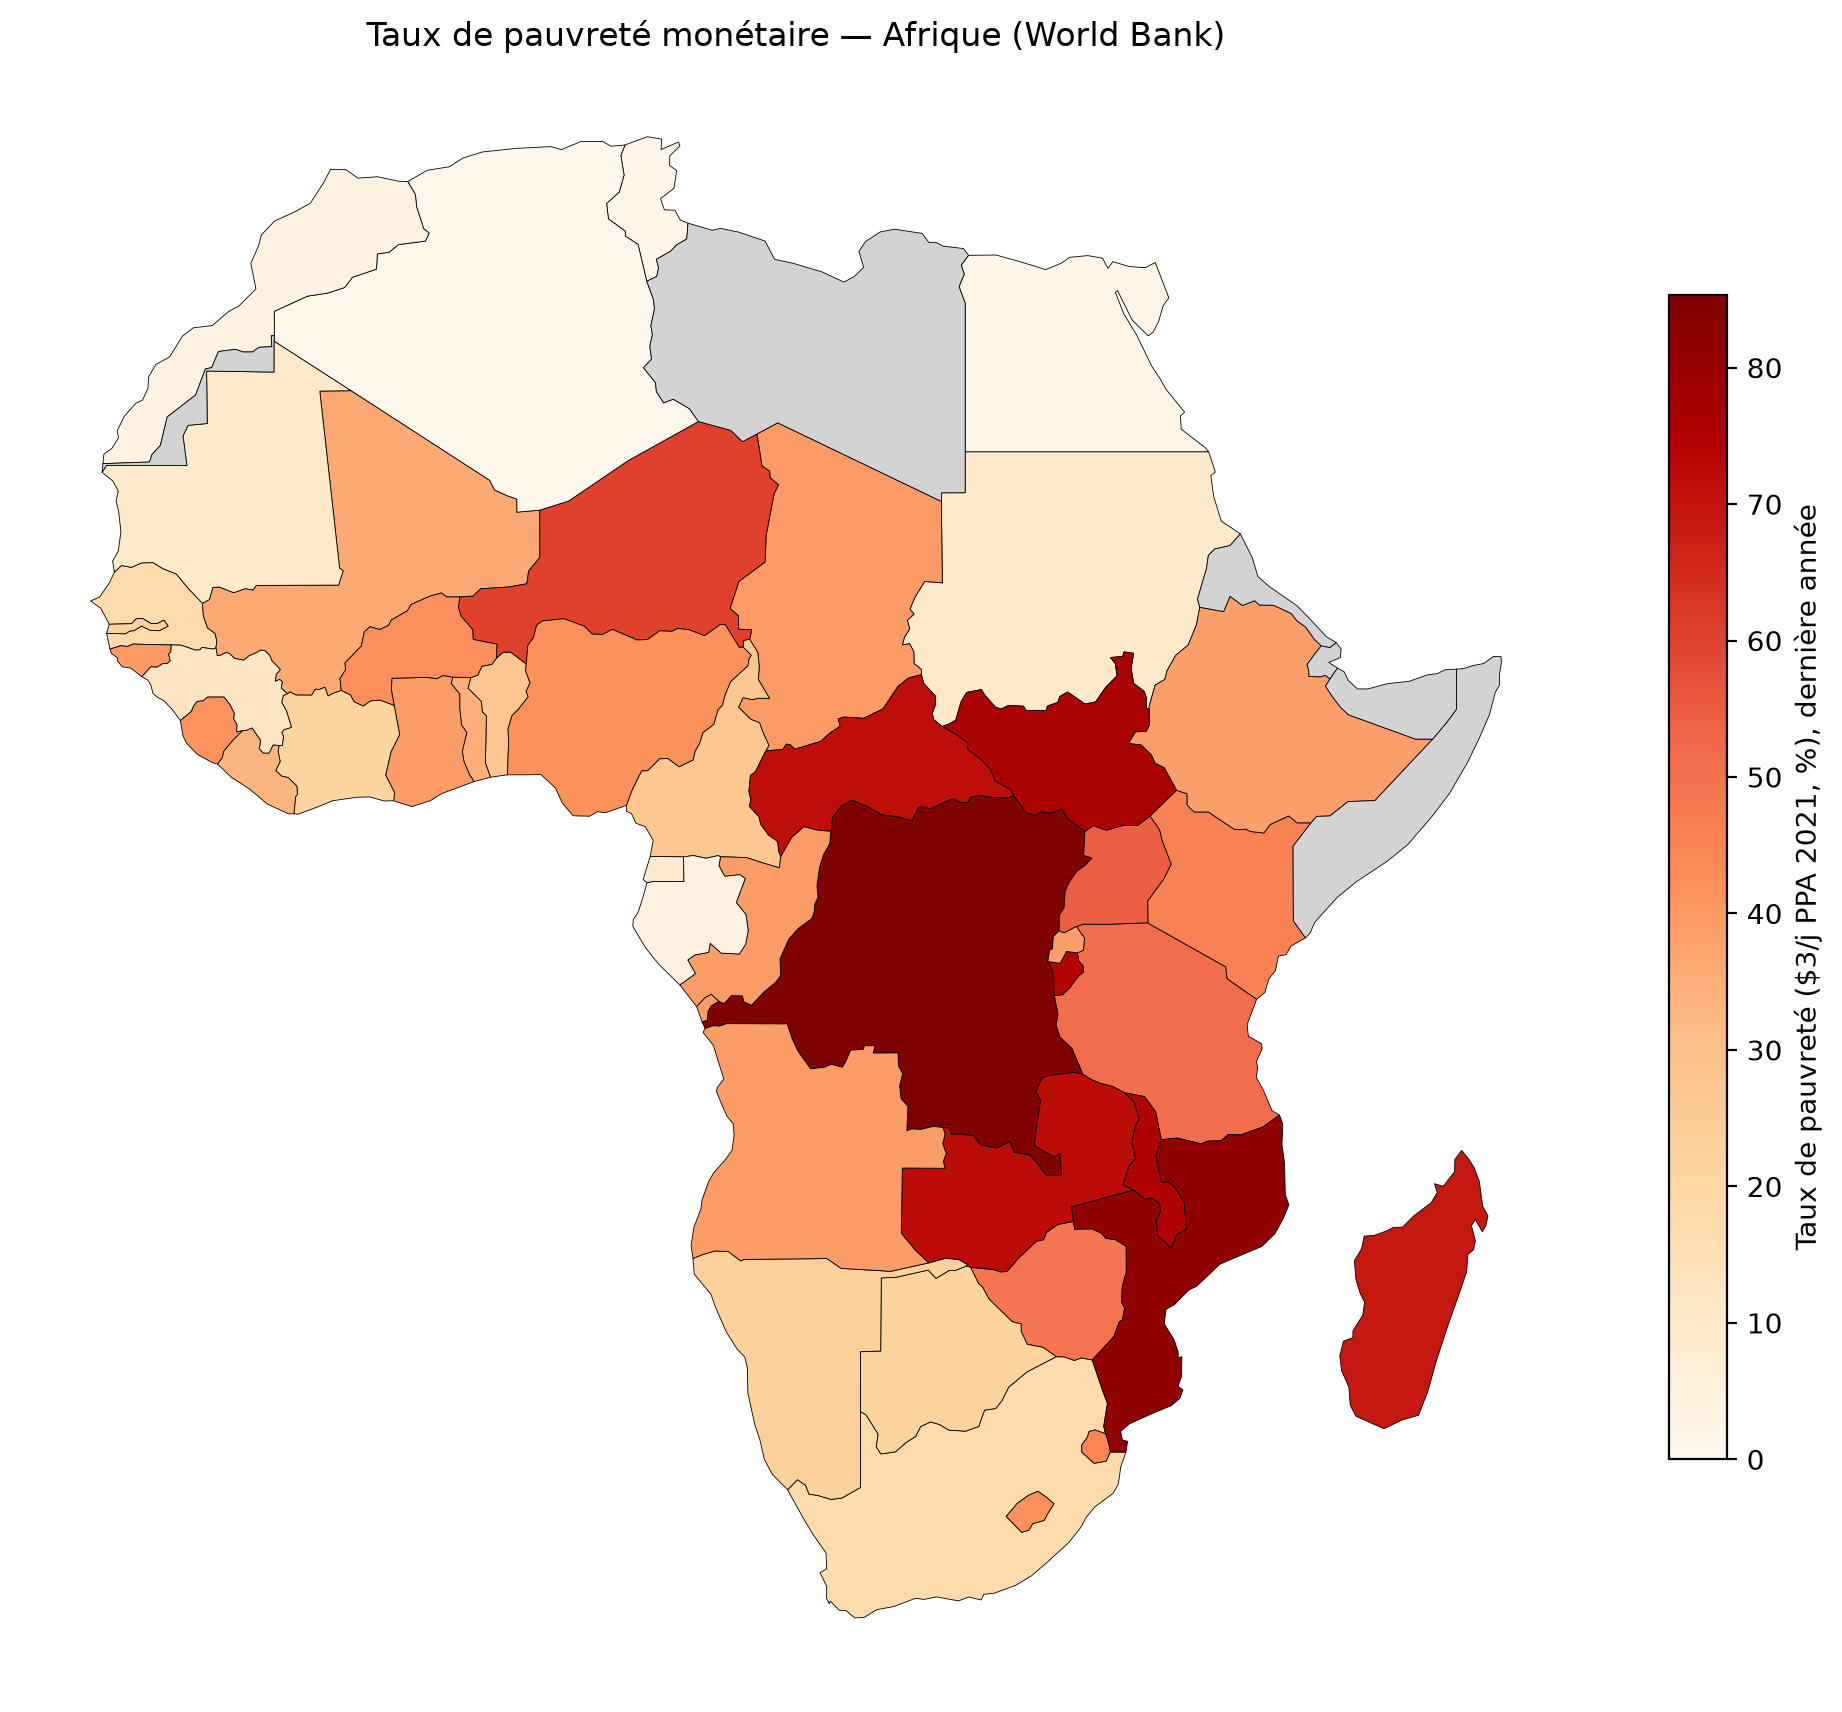
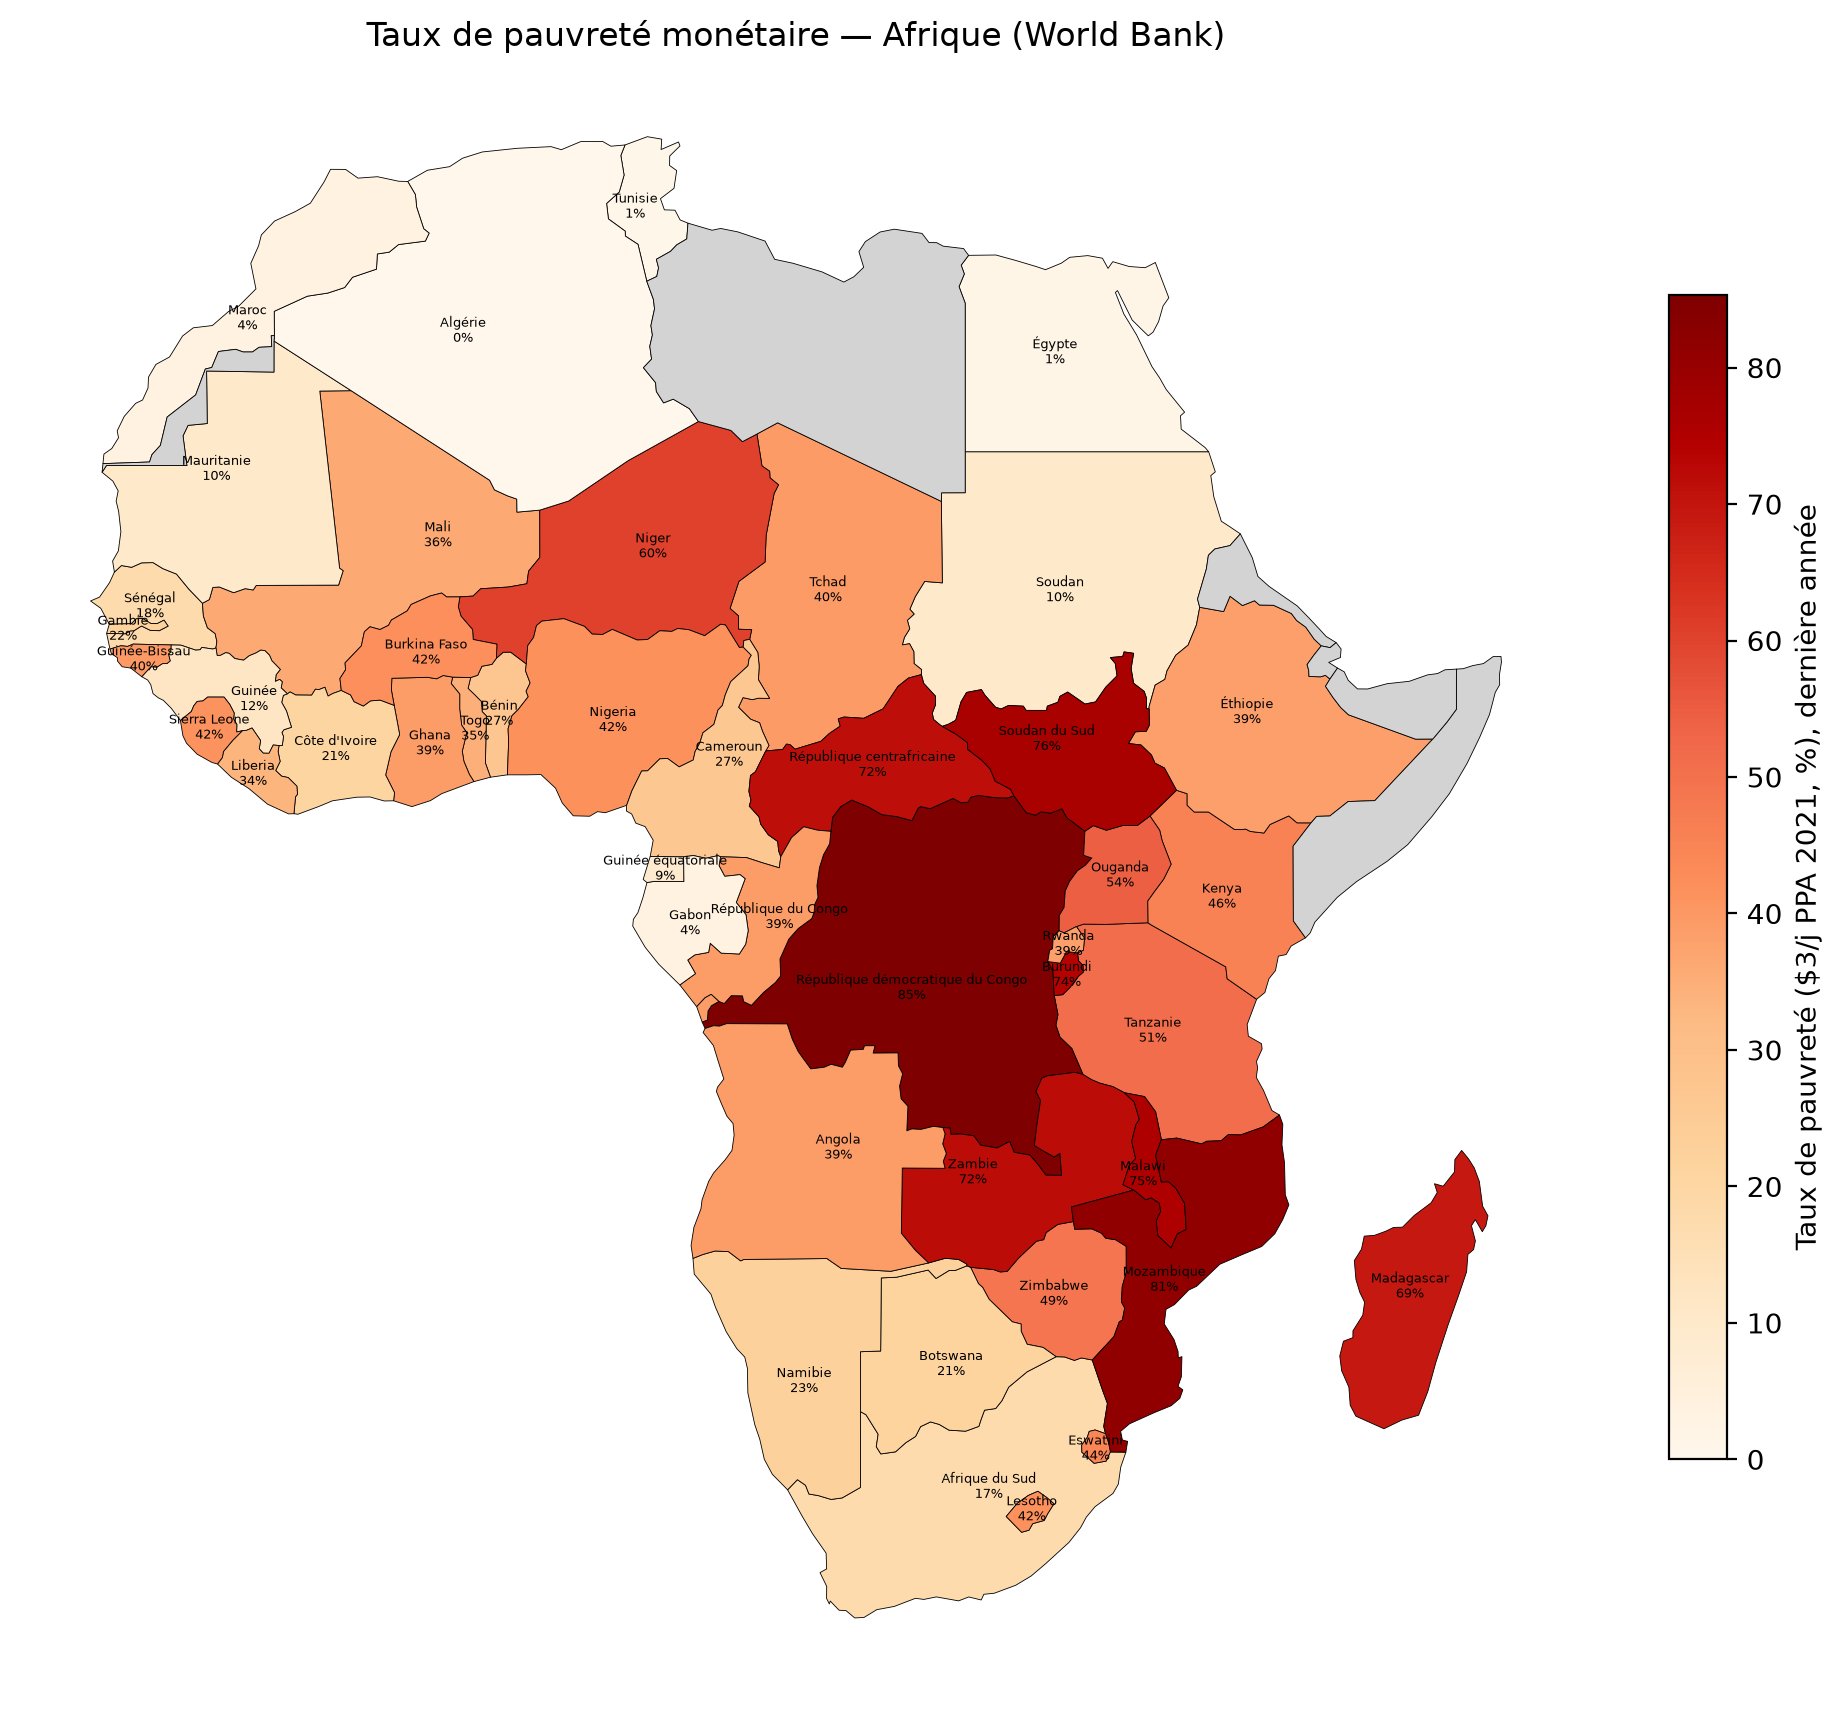
Ajoute noms de pays sur la carte pauvrete

diff --git a/src/06_mapping.py b/src/06_mapping.py
@@ -36,6 +36,11 @@ def run():
         merged.plot(column="poverty_rate_300ppp", cmap="OrRd", legend=True, ax=ax,
                     edgecolor="black", linewidth=0.3, missing_kwds={"color": "lightgrey"},
                     legend_kwds={"label": "Taux de pauvreté ($3/j PPA 2021, %), dernière année", "shrink": 0.6})
+        for _, row in merged.iterrows():
+            if pd.notna(row.get("poverty_rate_300ppp")):
+                c = row.geometry.representative_point()
+                ax.annotate(f"{row['NAME_FR']}\n{row['poverty_rate_300ppp']:.0f}%", (c.x, c.y),
+                            fontsize=4.5, ha="center", va="center", color="black")
         ax.set_title("Taux de pauvreté monétaire — Afrique (World Bank)")
         ax.axis("off")
         plt.tight_layout()
